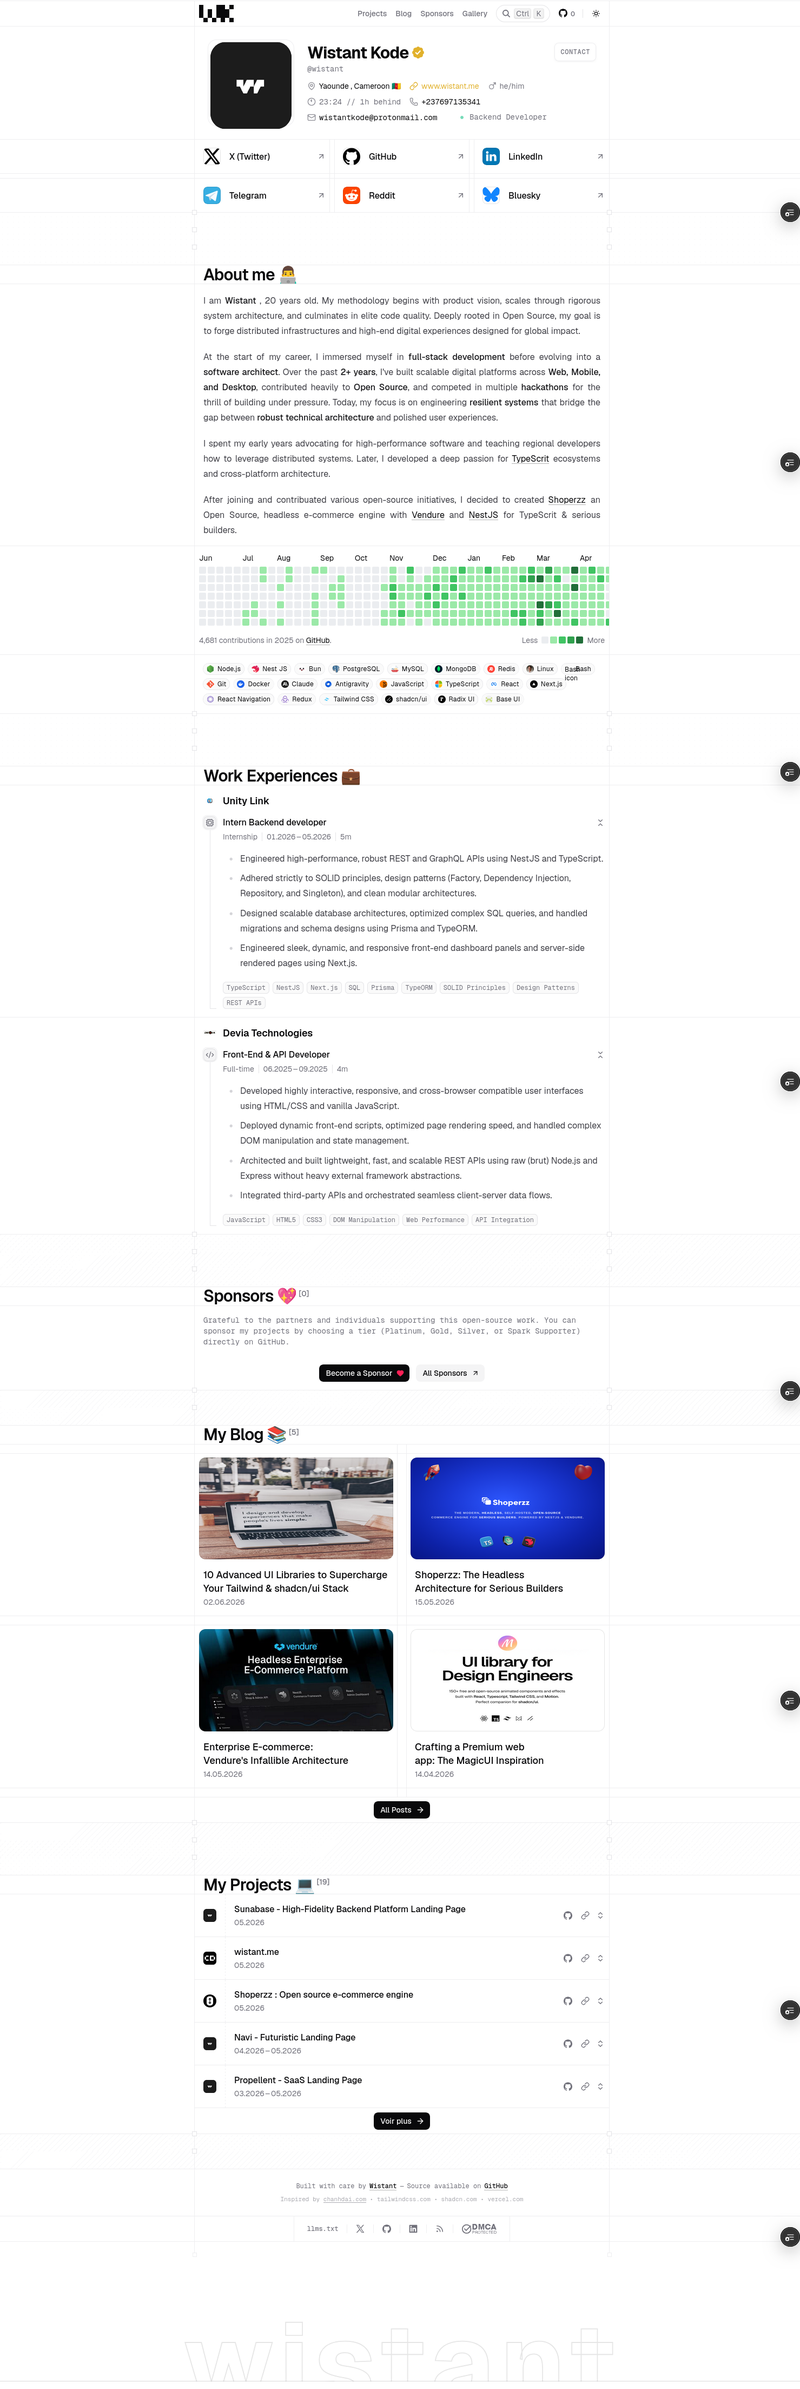
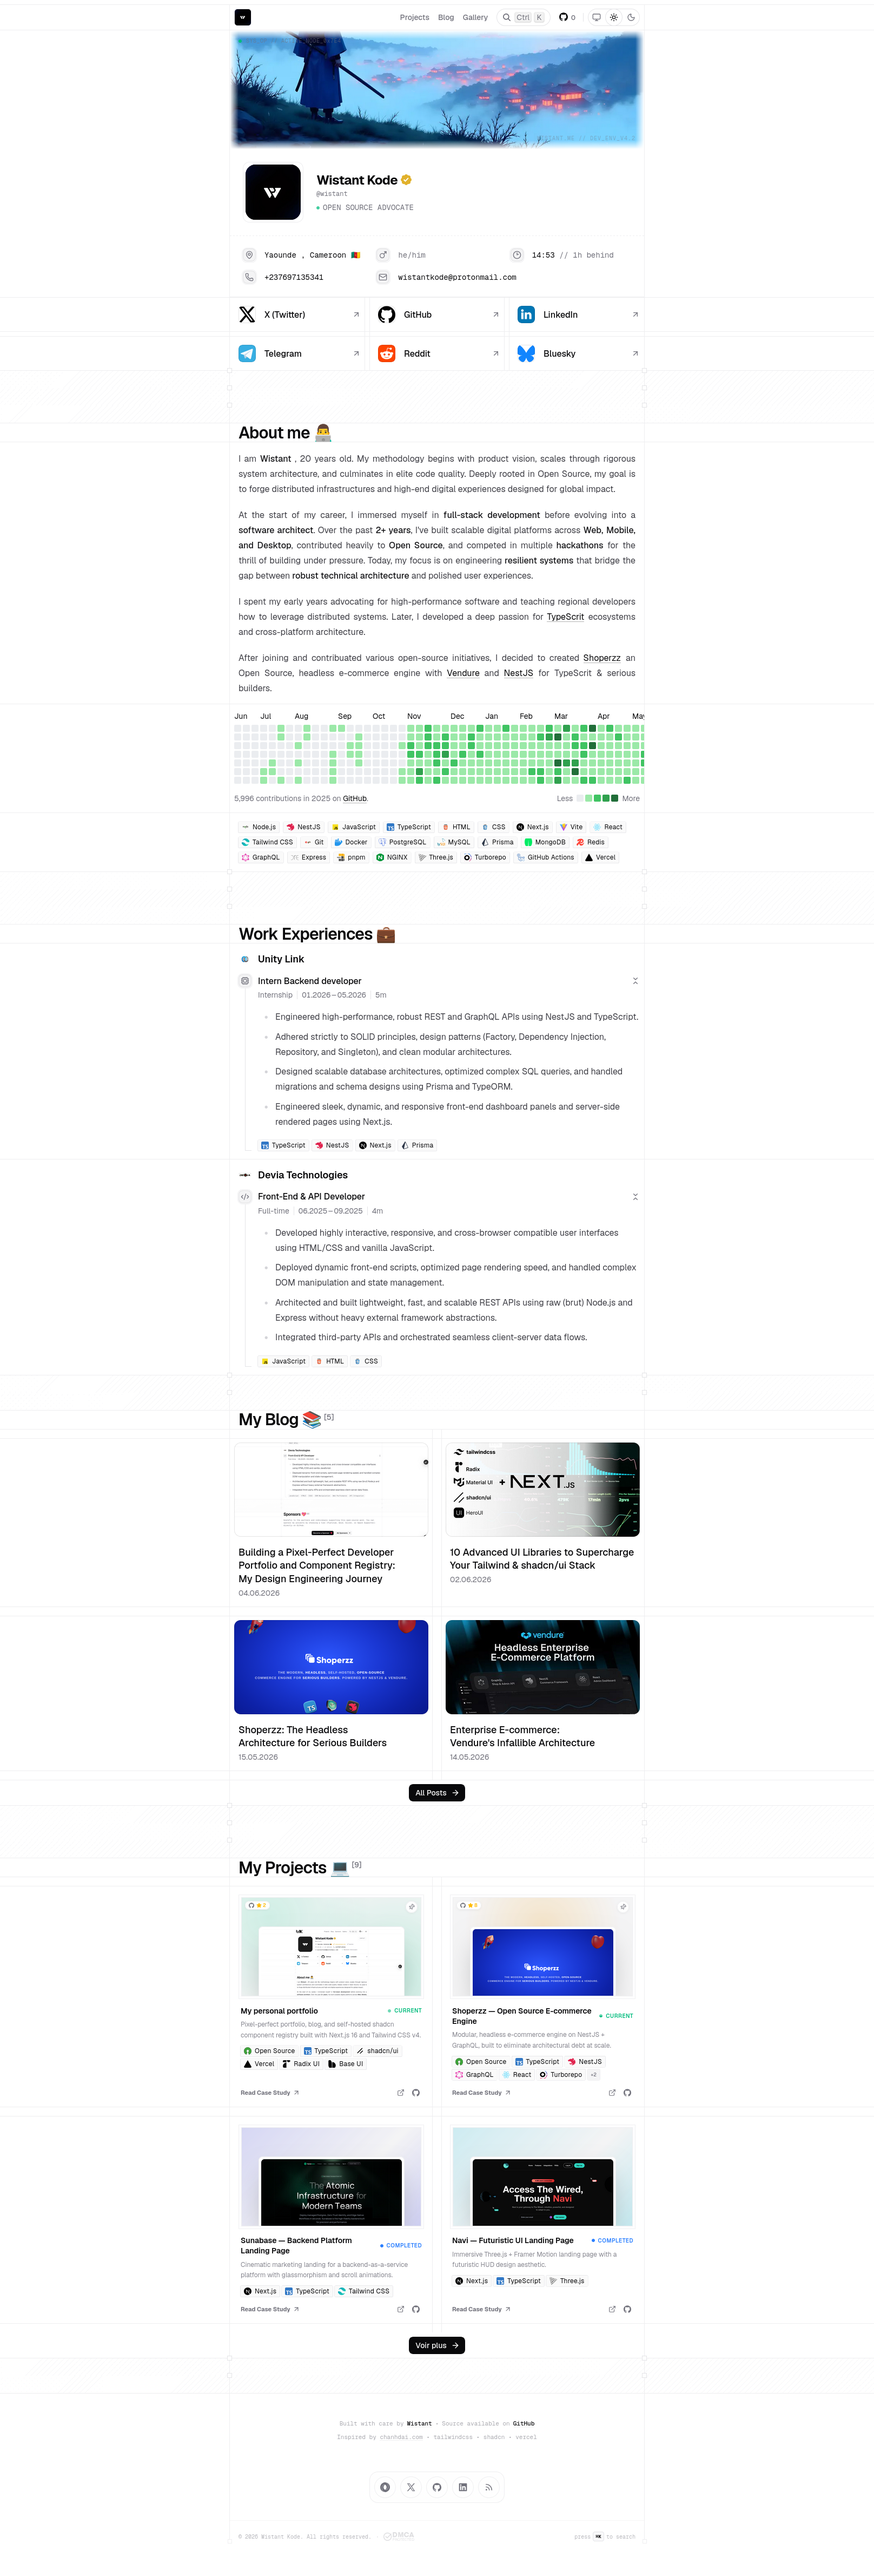
style(project): update readme preview image path and refine guide header

diff --git a/README.md b/README.md
@@ -1,4 +1,4 @@
-![Wistant Portfolio Preview](./public/preview-light.png)
+![Wistant Portfolio Preview](./public/projects/portfolio/preview.png)
 
 <p align='center'>My personal hub, portfolio & blog. A place to document my projects, technical notes, and web development journey. Built with high performance and neat developer aesthetics in mind.
 </p>
